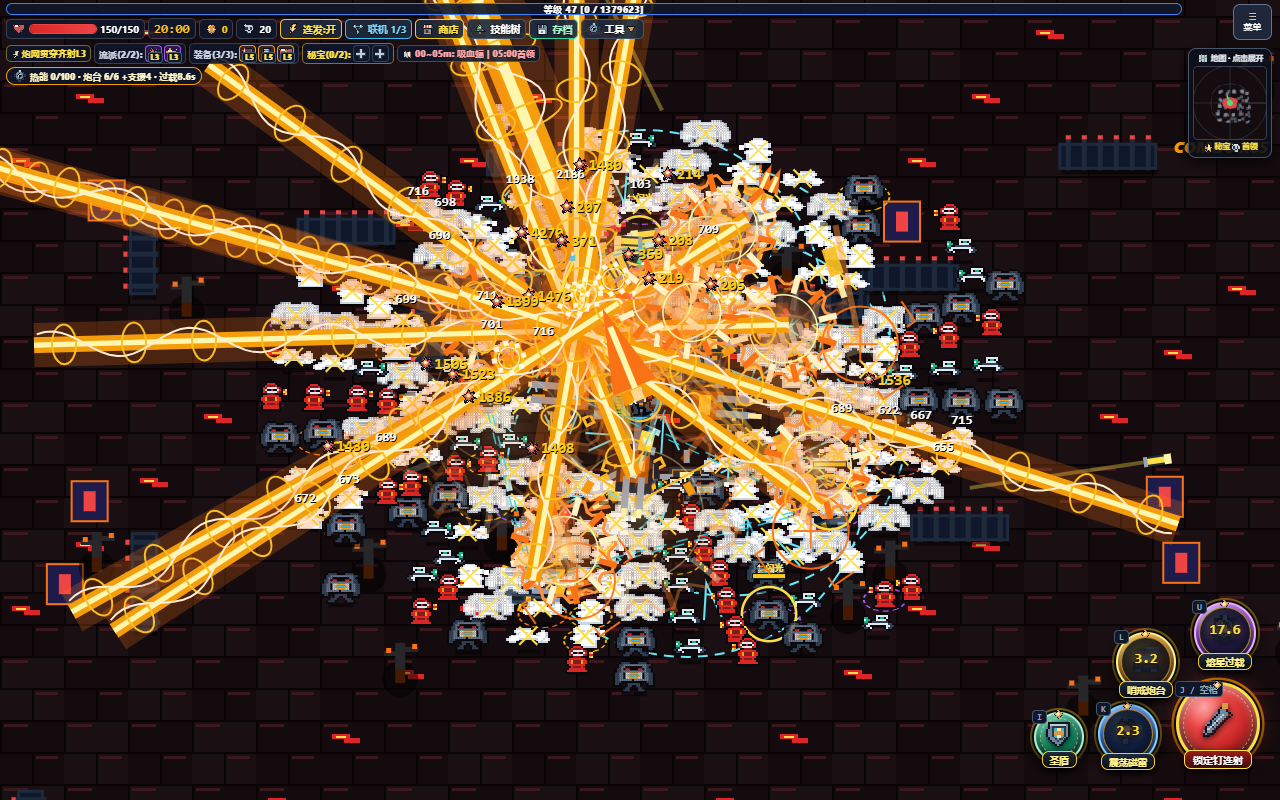
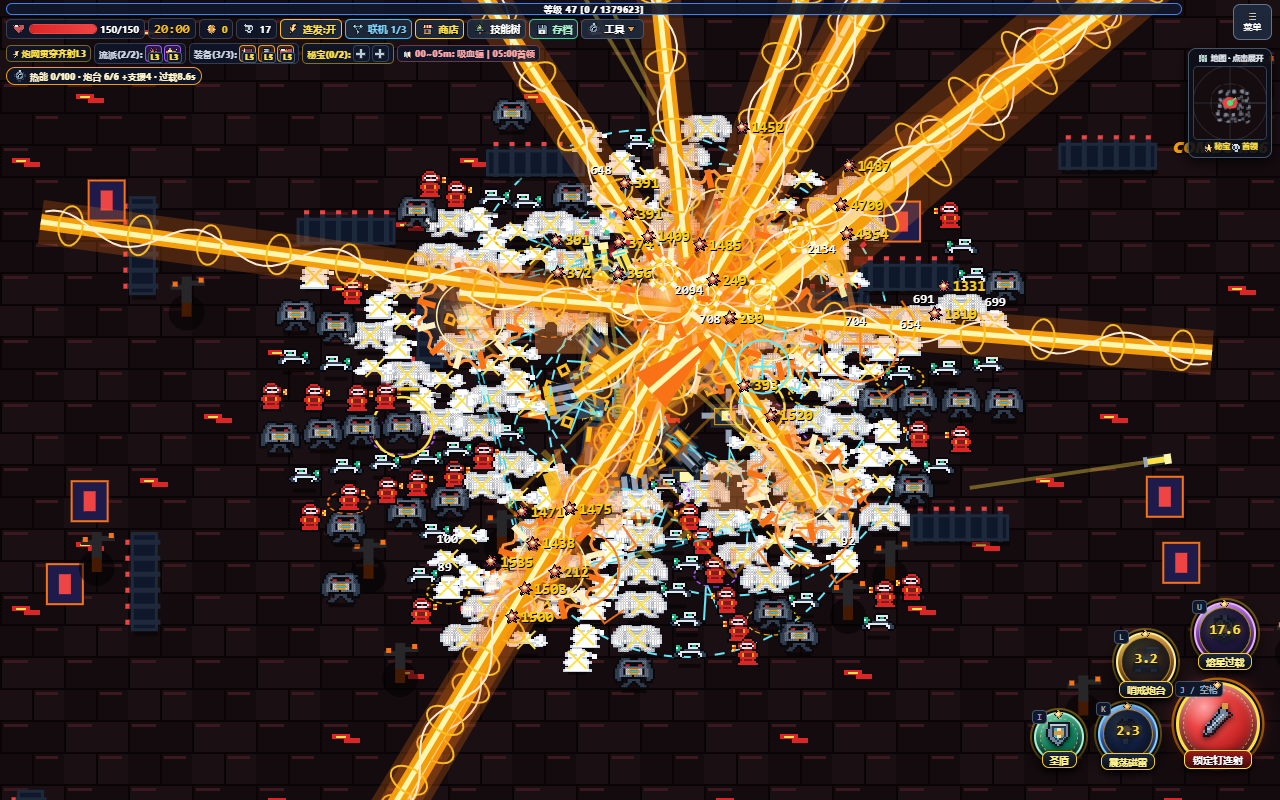
R20: replace rotating rig with aimed floating cannons and synced firing animation

diff --git a/index.html b/index.html
@@ -6,7 +6,7 @@
   <meta name="apple-mobile-web-app-capable" content="yes">
   <meta name="mobile-web-app-capable" content="yes">
   <meta name="theme-color" content="#0b0c10">
-  <title>血夜幸存者：暗黑像素版 v26.4 联机轻简版 R19 (Darkest Pixel Survivor)</title>
+  <title>血夜幸存者：暗黑像素版 v26.4 联机轻简版 R20 (Darkest Pixel Survivor)</title>
   <style>
     * {
       box-sizing: border-box;
@@ -1268,7 +1268,7 @@
     <!-- 英雄与地图选择大厅弹窗 (开局) -->
     <div id="lobby-modal" class="modal-overlay" style="display: flex;">
       <div class="modal-card">
-        <div class="modal-title">[px:swords] 血夜幸存者 · 战前备战 <span id="game-build" style="font-size:12px;color:#7dd3fc">R19</span></div>
+        <div class="modal-title">[px:swords] 血夜幸存者 · 战前备战 <span id="game-build" style="font-size:12px;color:#7dd3fc">R20</span></div>
         <div class="modal-subtitle">16位暗黑哥特精细像素 · 硬核生存数值 · 320同屏百鬼尸潮</div>
 
         <div style="font-size: 12px; font-weight: 800; text-align: left; margin-bottom: 5px; color: #93c5fd;">1. 选择出征英雄（独立技能机制与连携）</div>
@@ -2702,7 +2702,7 @@
     };
 
     var EngineerKit={
-      reset(){this.heat=0;this.heatGate=0;this.lock=null;this.lockTime=0;this.lockVisual=null;this.combo=0;this.strikes=[];this.strikeTimer=0;this.netTimer=0;this.cannonTimer=0;},
+      reset(){this.heat=0;this.heatGate=0;this.lock=null;this.lockTime=0;this.lockVisual=null;this.combo=0;this.strikes=[];this.strikeTimer=0;this.netTimer=0;this.cannonTimer=0;this.cannonSeq=this.cannonSeq||0;this.cannonMask=0;this.rig=Array.from({length:4},()=>[0,0]);},
       normalizeSkills(){const defaults=HERO_CONFIGS.engineer.initSkills();for(const [key,sk]of Object.entries(player.skills))if(defaults[key])sk.name=defaults[key].name;Object.assign(player.skills.charge,{branchAName:defaults.charge.branchAName,branchBName:defaults.charge.branchBName});},
       turrets(){return groundEffects.filter(g=>g.type==='turret'&&g.life>0);},
       cap(){const s=player.skills.skill2;return s.isEvolved?6:s.level>=5?5:s.level>=3?4:2;},
@@ -2796,26 +2796,40 @@
         const u=player.skills.ult;GameState.forgeOverdriveTimer=u.isEvolved?9:6;player.invulnerableTimer=Math.max(player.invulnerableTimer,1.2);
         for(const g of this.turrets().filter(g=>g.temporary))g.life=0;
         const n=u.isEvolved?4:2;for(let i=0;i<n;i++){const a=player.aimAngle+Math.PI/4+i*Math.PI*2/n;this.place(player.x+Math.cos(a)*210,player.y+Math.sin(a)*210,true);}
-        this.strikeTimer=.12;this.cannonTimer=0;this.cannons();this.command(3);this.visual('forge_blast',{x:player.x,y:player.y,radius:200,color:'#fbbf24'},.65);damageInRadius(player.x,player.y,180,u.damage,120);
+        this.rig=Array.from({length:4},(_,i)=>{const a=this.rigPort(player,GameState.gameTime,i).orbit;return[Math.atan2(Math.sin(a),Math.cos(a)),0];});this.strikeTimer=.12;this.cannonTimer=0;this.cannons();this.command(3);this.visual('forge_blast',{x:player.x,y:player.y,radius:200,color:'#fbbf24'},.65);damageInRadius(player.x,player.y,180,u.damage,120);
         showToast(u.isEvolved?'[px:gear] 日冕工厂：四座重装支援 · 炮网齐射 · 巡航轰炸！':'[px:gear] 熔星过载：双支援炮台 · 火力全开！');audio.playExplosion();
       },
+      rigPort(p,time,index){
+        const orbit=index*Math.PI/2+Math.PI/4+time*.25;
+        return{x:p.x+Math.cos(orbit)*58,y:p.y+Math.sin(orbit)*58,orbit};
+      },
+      rigView(){return{evolved:Boolean(player.skills.ult.isEvolved),ports:this.rig||[]};},
+      rigPacket(){return[this.cannonSeq||0,this.cannonMask||0,player.skills.ult.isEvolved?1:0,...Array.from({length:4},(_,i)=>Math.round((this.rig?.[i]?.[0]||0)*1000)/1000)];},
       cannons(){
         if(!WorldCoop.canAct()||GameState.forgeOverdriveTimer<=0)return;
-        const u=player.skills.ult,n=u.isEvolved?2:1;
+        const u=player.skills.ult,n=u.isEvolved?2:1;let fired=false,mask=0;
         for(let port=0;port<4;port++){
-          const a=port*Math.PI/2+GameState.gameTime*.25,x=player.x+Math.cos(a)*115,y=player.y+Math.sin(a)*115;
-          for(let i=0;i<n;i++){const side=n===1?0:(i?7:-7);this.shoot(x-Math.sin(a)*side,y+Math.cos(a)*side,a+(i-(n-1)/2)*.06,u.damage*.30,u.isEvolved,true,{forgeCannon:true,isSecondary:true});}
-          this.visual('forge_muzzle',{x,y,angle:a,radius:38,color:'#fde047'},.18);
+          const g=this.rigPort(player,GameState.gameTime,port),target=this.target(g.x,g.y,540);
+          if(!target)continue;
+          const a=Math.round(Math.atan2(target.y-g.y,target.x-g.x)*1000)/1000,x=g.x+Math.cos(a)*31,y=g.y+Math.sin(a)*31;
+          let shots=0;
+          for(let i=0;i<n;i++){
+            const side=n===1?0:(i?4:-4);
+            if(this.shoot(x-Math.sin(a)*side,y+Math.cos(a)*side,a+(i-(n-1)/2)*.035,u.damage*.30,u.isEvolved,true,{forgeCannon:true,isSecondary:true}))shots++;
+          }
+          if(shots){this.rig[port]=[a,.18];mask|=1<<port;fired=true;this.visual('forge_cannon_flash',{x,y,angle:a,radius:23,color:'#fde047'},.16);}
         }
-        this.cannonTimer=.45;audio.playShoot();
+        this.cannonMask=mask;if(fired){this.cannonSeq++;audio.playShoot();}
+        this.cannonTimer=.45;
       },
-      explode(x,y,radius,damage,except=null){
-        this.visual('forge_blast',{x,y,radius,color:'#fb923c'},.42);audio.playExplosion();
+      explode(x,y,radius,damage,except=null,cannon=false){
+        this.visual(cannon?'forge_cannon_blast':'forge_blast',{x,y,radius,color:'#fb923c'},.42);audio.playExplosion();
         for(const e of [...enemies])if(e!==except&&!e.isDead&&Math.hypot(e.x-x,e.y-y)<=radius+e.radius)damageEnemy(e,damage,Math.atan2(e.y-y,e.x-x),90,true);
       },
       tick(dt){
         if(GameState.selectedHero!=='engineer')return;
-        if(!WorldCoop.canAct()){this.strikes=[];if(this.lockVisual)this.lockVisual.life=0;if(player.isDowned){this.heat=0;this.lockTime=0;}for(const g of this.turrets())g.burstLeft=0;return;}
+        for(const pose of this.rig)pose[1]=Math.max(0,pose[1]-dt);
+        if(!WorldCoop.canAct()){this.strikes=[];for(const pose of this.rig)pose[1]=0;if(this.lockVisual)this.lockVisual.life=0;if(player.isDowned){this.heat=0;this.lockTime=0;}for(const g of this.turrets())g.burstLeft=0;return;}
         this.heatGate=Math.max(0,(this.heatGate||0)-dt);this.lockTime=Math.max(0,(this.lockTime||0)-dt);
         if(this.lockTime>0&&this.lock&&!this.lock.isDead){const v=this.lockVisual;if(v&&skyBeams.includes(v)){v.x=this.lock.x;v.y=this.lock.y;v.life=.4;}else this.mark(this.lock);}
         else if(this.lockVisual)this.lockVisual.life=0;
@@ -2874,20 +2888,55 @@
           const strike=s.type==='forge_strike',rr=strike?r*(.45+.55*ratio):r;c.strokeStyle=strike?'#f97316':'#67e8f9';c.lineWidth=2;c.save();c.rotate(t*(strike?-2:1));for(let i=0;i<4;i++){c.rotate(Math.PI/2);c.beginPath();c.moveTo(rr,-12);c.lineTo(rr,12);c.lineTo(rr-10,12);c.stroke();}c.restore();c.beginPath();c.arc(0,0,rr*.65,0,Math.PI*2);c.moveTo(-rr*.3,0);c.lineTo(rr*.3,0);c.moveTo(0,-rr*.3);c.lineTo(0,rr*.3);c.stroke();
           if(strike){const y=-240*ratio;c.strokeStyle='rgba(251,146,60,.5)';c.lineWidth=6;c.beginPath();c.moveTo(-80*ratio,y-45);c.lineTo(0,0);c.stroke();c.fillStyle='#fbbf24';c.save();c.translate(-80*ratio,y);c.rotate(-.32);c.fillRect(-7,-23,14,28);c.fillStyle='#fff7ae';c.fillRect(-3,5,6,24);c.restore();}return;
         }
+        if(s.type==='forge_cannon_flash'){
+          c.rotate(s.angle||0);const f=ratio;c.fillStyle='#f97316';c.fillRect(-3,-8*f,23*f,16*f);c.fillRect(13,-3*f,22*f,6*f);c.fillStyle='#fde047';c.fillRect(-3,-4*f,24*f,8*f);c.fillStyle='#fffde7';c.fillRect(-3,-2,20*f,4);return;
+        }
+        if(s.type==='forge_cannon_blast'){
+          const rr=r*(.35+.65*(1-ratio));c.strokeStyle='#f59e0b';c.lineWidth=3;c.beginPath();c.moveTo(-rr,0);c.lineTo(0,-rr);c.lineTo(rr,0);c.lineTo(0,rr);c.closePath();c.stroke();
+          c.fillStyle=ratio>.6?'#fff7cf':'#fb923c';c.fillRect(-rr*.28,-rr*.28,rr*.56,rr*.56);
+          for(let i=0;i<8;i++){c.save();c.rotate(i*Math.PI/4);c.fillStyle=i%2?'#fbbf24':'#f97316';c.fillRect(rr*.7,-3,12+10*ratio,6);c.restore();}return;
+        }
         if(s.type==='forge_muzzle'){c.rotate(s.angle||0);c.fillStyle='#f97316';c.beginPath();c.moveTo(14,-r*.35);c.lineTo(r*1.5,0);c.lineTo(14,r*.35);c.fill();c.fillStyle='#fff7ae';c.fillRect(13,-3,r,6);return;}
         const size=r*(1.1-ratio*.7),gradient=c.createRadialGradient(0,0,0,0,0,size);gradient.addColorStop(0,'rgba(255,247,174,.6)');gradient.addColorStop(.45,'rgba(249,115,22,.28)');gradient.addColorStop(1,'rgba(249,115,22,0)');c.fillStyle=gradient;c.fillRect(-size,-size,size*2,size*2);
         c.rotate((1-ratio)*1.3);c.strokeStyle=s.color||'#fb923c';c.lineWidth=3;c.beginPath();for(let i=0;i<48;i++){const a=i*Math.PI/24,rr=size*(i%4<2?1:.86);if(i)c.lineTo(Math.cos(a)*rr,Math.sin(a)*rr);else c.moveTo(Math.cos(a)*rr,Math.sin(a)*rr);}c.closePath();c.stroke();c.strokeStyle='#fff7ae';c.lineWidth=1.5;c.beginPath();c.arc(0,0,size*.65,0,Math.PI*2);c.stroke();
         for(let i=0;i<12;i++){c.save();c.rotate(i*Math.PI/6);c.fillStyle=i%2?'#fef3c7':'#f97316';c.fillRect(size*.7,-3,size*.35,6);c.restore();}
       },
       drawRig(c,p,state){
-        if(state.selectedHero!=='engineer')return;const active=state.forgeOverdriveTimer>0,t=state.gameTime||0;
-        c.save();c.translate(p.x,p.y);c.strokeStyle=active?'#fbbf24':'#fb923c';c.lineWidth=2;
+        if(state.selectedHero!=='engineer')return;
+        const active=state.forgeOverdriveTimer>0,t=state.gameTime||0;
+        c.save();c.translate(p.x,p.y);
         if(active){
-          c.save();c.rotate(t*.4);c.beginPath();for(let i=0;i<6;i++){const a=i*Math.PI/3;if(i)c.lineTo(Math.cos(a)*102,Math.sin(a)*102);else c.moveTo(102,0);}c.closePath();c.stroke();for(let i=0;i<12;i++){c.rotate(Math.PI/6);c.fillStyle='#f59e0b';c.fillRect(95,-4,13,8);}c.restore();
-          for(let i=0;i<4;i++){const a=i*Math.PI/2+t*.25,x=Math.cos(a)*69,y=Math.sin(a)*69;c.strokeStyle='#64748b';c.lineWidth=7;c.beginPath();c.moveTo(0,0);c.lineTo(x,y);c.stroke();c.save();c.translate(x,y);c.rotate(a);c.fillStyle='#0f172a';c.fillRect(-24,-18,48,36);c.fillStyle='#b45309';c.fillRect(-18,-14,32,28);c.fillStyle='#fbbf24';c.fillRect(-10,-10,12,20);c.fillStyle='#94a3b8';c.fillRect(8,-11,33,7);c.fillRect(8,4,33,7);c.fillStyle='#fff7ae';c.fillRect(40,-10,8+Math.sin(t*24+i)*6,5);c.fillRect(40,5,8+Math.sin(t*24+i)*6,5);c.restore();}
-        }else{for(const side of [-1,1]){c.fillStyle='#334155';c.fillRect(side*29-8,-8,16,22);c.fillStyle='#fb923c';c.fillRect(side*29-5,-5,10,5);c.fillStyle='#94a3b8';c.fillRect(side*29-3,-20,6,15);}}
+          const rig=state.forgeRig||(p===player?this.rigView():null),evolved=Boolean(rig?.evolved);
+          // Compact floating pods; the middle remains open for the player and nearby enemies.
+          c.strokeStyle='#7c582a';c.lineWidth=1;c.setLineDash([7,17]);c.beginPath();c.arc(0,0,54,0,Math.PI*2);c.stroke();c.setLineDash([]);
+          c.fillStyle='#fbbf24';for(const side of [-1,1]){c.fillRect(side*22-3,-22,6,2);c.fillRect(side*22-3,20,6,2);}
+          for(let i=0;i<4;i++){
+            const g=this.rigPort(p,t,i),pose=rig?.ports?.[i],a=Number.isFinite(pose?.[0])?pose[0]:g.orbit;
+            const flash=Math.max(0,Math.min(1,(pose?.[1]||0)/.18)),kick=6*flash;
+            c.save();c.translate(g.x-p.x,g.y-p.y);
+            c.fillStyle='rgba(2,6,23,.45)';c.fillRect(-18,15,36,5);
+            c.rotate(a);c.fillStyle='#225867';c.fillRect(-22,-6,8,12);c.fillStyle='#67e8f9';c.fillRect(-27,-3,6,6);c.fillStyle='#e0f2fe';c.fillRect(-25,-1,4,2);
+            c.translate(-kick,0);
+            c.fillStyle='#070c15';c.fillRect(-17,-15,36,30);c.fillRect(12,-12,22,24);
+            c.fillStyle='#263345';c.fillRect(-15,-13,32,26);c.fillStyle='#a25418';c.fillRect(-11,-11,25,22);
+            c.fillStyle=evolved?'#fbbf24':'#d99026';c.fillRect(-10,-10,15,5);c.fillRect(-10,5,15,5);c.fillStyle='#ffdf86';c.fillRect(-7,-8,8,2);
+            c.fillStyle='#17202c';c.fillRect(-8,-3,14,6);c.fillStyle=flash?'#fff7cf':'#4b8393';c.fillRect(-6,-2,9,4);
+            for(const side of evolved?[-5,5]:[0]){
+              c.fillStyle='#5a6879';c.fillRect(8,side-4,23,8);c.fillStyle='#b5c6cc';c.fillRect(10,side-3,19,2);c.fillStyle='#14202c';c.fillRect(27,side-3,7,6);
+              c.fillStyle=flash?'#fff7cf':'#586575';c.fillRect(31,side-2,3,4);
+            }
+            if(flash){
+              c.globalAlpha*=flash;c.fillStyle='#f97316';c.fillRect(34,-9,12,18);c.fillRect(46,-4,10,8);c.fillStyle='#fbbf24';c.fillRect(34,-5,14,10);c.fillStyle='#fffde7';c.fillRect(33,-2,17,4);
+              c.fillStyle='#cbd5e1';c.fillRect(-1,-20-(1-flash)*9,5,4);c.fillRect(-8,17+(1-flash)*8,4,3);
+            }
+            c.restore();
+          }
+        }else{
+          for(const side of [-1,1]){c.fillStyle='#334155';c.fillRect(side*29-8,-8,16,22);c.fillStyle='#fb923c';c.fillRect(side*29-5,-5,10,5);c.fillStyle='#94a3b8';c.fillRect(side*29-3,-20,6,15);}
+        }
         c.restore();
       }
+
     };
 
 
@@ -7174,7 +7223,7 @@
               p.hitEnemies.add(en);
               damageEnemy(en, p.damage, Math.atan2(p.vy, p.vx), 110, Boolean(p.isSecondary));
               if(p.forgeHand)EngineerKit.onHit(en,p);
-              if(p.isGrenade&&!p.hasExploded){p.hasExploded=true;EngineerKit.explode(en.x,en.y,p.color==='#fde047'?95:70,Math.round(p.damage*.65),en);p.life=0;}
+              if(p.isGrenade&&!p.hasExploded){p.hasExploded=true;EngineerKit.explode(en.x,en.y,p.color==='#fde047'?95:70,Math.round(p.damage*.65),en,Boolean(p.forgeCannon));p.life=0;}
               if (p.applyBleed) { en.bleedStacks = Math.min(5, (en.bleedStacks || 0) + 1); en.bleedTimer = 4.0; WorldCoop.markBleed(en); }
               if (p.applyPoison) { en.poisonStacks = Math.min(4, (en.poisonStacks || 0) + 1); }
               if (p.isFreeze) { en.freezeTimer = 1.5; }
@@ -7190,7 +7239,7 @@
             }
           }
         }
-        if(p.life<=0&&p.isGrenade&&!p.hasExploded&&WorldCoop.canAct()){p.hasExploded=true;EngineerKit.explode(p.x,p.y,p.color==='#fde047'?95:70,Math.round(p.damage*.65));}
+        if(p.life<=0&&p.isGrenade&&!p.hasExploded&&WorldCoop.canAct()){p.hasExploded=true;EngineerKit.explode(p.x,p.y,p.color==='#fde047'?95:70,Math.round(p.damage*.65),null,Boolean(p.forgeCannon));}
         if (p.life <= 0) projectiles.splice(i, 1);
       }
 
@@ -7718,7 +7767,9 @@
         ctx.translate(p.x, p.y);
         ctx.rotate(ang);
 
-        if(p.healerBolt){
+        if(p.forgeCannon){
+          ctx.fillStyle='rgba(249,115,22,.42)';ctx.fillRect(-55,-5,59,10);ctx.fillStyle='#fb923c';ctx.fillRect(-39,-3,42,6);ctx.fillStyle='#fff7cf';ctx.fillRect(-23,-1,34,2);ctx.fillStyle='#131d2a';ctx.fillRect(-12,-7,23,14);ctx.fillStyle=p.color;ctx.fillRect(-8,-5,21,10);ctx.fillStyle='#fffde7';ctx.fillRect(6,-3,10,6);
+        }else if(p.healerBolt){
           ctx.fillStyle='rgba(110,231,183,.28)';ctx.fillRect(-28,-5,42,10);ctx.fillStyle='#a7f3d0';ctx.fillRect(-21,-2,30,4);ctx.fillStyle='#fde68a';ctx.beginPath();ctx.moveTo(19,0);ctx.lineTo(5,-8);ctx.lineTo(-1,0);ctx.lineTo(5,8);ctx.closePath();ctx.fill();ctx.fillStyle='#fffde7';ctx.fillRect(-8,-2,23,4);ctx.fillRect(-19,-6,5,12);
         }else if(p.isRivet){
           if(p.forgeRocket){ctx.fillStyle='rgba(249,115,22,.45)';ctx.beginPath();ctx.moveTo(-10,-6);ctx.lineTo(-48,0);ctx.lineTo(-10,6);ctx.fill();ctx.fillStyle='#fff7ae';ctx.fillRect(-30,-2,20,4);}
@@ -10649,7 +10700,7 @@
               notes.push('治疗只作用于范围内存活且可参与战斗的玩家。溢疗的一半转盾，最多目标生命上限35%，不会降低已有更高护盾。');
             }else if(hero==='engineer'&&key==='skill2'){
               add('炮台上限',s.isEvolved?6:lv>=5?5:lv>=3?4:2);add('每次部署',s.isEvolved?3:lv>=3?2:1);add('炮台寿命',n(16+.8*lv)+' 秒');add('炮台射程',(s.radius||280)+60+' px');
-            }else if(hero==='engineer'&&key==='ult'){add('机甲炮口','4 个旋转炮口');add('机甲炮击',`${s.isEvolved?8:4} 枚炮弹 / 每0.45秒`);add('每枚直击基数',n(s.damage*.3));add('大招持续',`${s.isEvolved?9:6} 秒`);add('普攻 / 蓄力','普攻间隔×0.65 / 蓄满时间×0.70');
+            }else if(hero==='engineer'&&key==='ult'){add('机甲炮口','4 门自动瞄准浮游炮');add('浮游炮索敌距离','540 px（从炮座计算）');add('机甲炮击',`${s.isEvolved?8:4} 枚炮弹 / 每0.45秒`);add('每枚直击基数',n(s.damage*.3));add('大招持续',`${s.isEvolved?9:6} 秒`);add('普攻 / 蓄力','普攻间隔×0.65 / 蓄满时间×0.70');
             }else if(hero==='mage'&&key==='skill1') {add('位移距离',145+15*lv+' px');add('冻结时间',(s.freezeDuration||2.5)+' 秒');notes.push('起点与终点各触发一次冰霜新星。');}
             else if(hero==='warrior'&&key==='skill2')add('持续时间',n((s.duration||4.5)+.4*lv)+' 秒');
             if(key!=='item'&&lv<(s.maxLevel||5)){
@@ -12703,6 +12754,9 @@
           if(old&&pkt.seq<=old.seq)return true;
           const state=old||{visuals:new Map(),seen:new Map(),items:[]};state.seq=pkt.seq;state.castSeq=pkt.castSeq;state.at=performance.now();
           if(Array.isArray(pkt.look)&&(pkt.look.length===7||pkt.look.length===8)&&pkt.look.every(Number.isFinite))state.look=pkt.look.map((v,i)=>Math.max(0,Math.min(i===5?40:30,v)));
+          if(Array.isArray(pkt.rig)&&pkt.rig.length===7&&Number.isSafeInteger(pkt.rig[0])&&pkt.rig[0]>=0&&Number.isInteger(pkt.rig[1])&&pkt.rig[1]>=0&&pkt.rig[1]<=15&&[0,1].includes(pkt.rig[2])&&pkt.rig.slice(3).every(a=>Number.isFinite(a)&&Math.abs(a)<=Math.PI+.01)){
+            const fresh=pkt.rig[0]>(state.rigSeq??0);state.rigSeq=Math.max(state.rigSeq||0,pkt.rig[0]);state.rig={evolved:Boolean(pkt.rig[2]),ports:pkt.rig.slice(3).map((a,i)=>[a,fresh&&(pkt.rig[1]&(1<<i)) ? .18 : (state.rig?.ports?.[i]?.[1]||0)])};
+          }
           if(Array.isArray(pkt.items)&&pkt.items.length<=16)state.items=pkt.items.filter(a=>Array.isArray(a)&&['orbit','blackhole','trap','wheel'].includes(a[0])&&a.slice(1,4).every(Number.isFinite));
           if(Array.isArray(pkt.alive)&&pkt.alive.length<=320){const alive=new Set(pkt.alive);for(const [id,v]of state.visuals)if((['ground','orbit','wheel','projectile'].includes(v.kind)||['healer_sanctuary','healer_wings'].includes(v.obj.type))&&!alive.has(id))state.visuals.delete(id);}
           const ack=[];
@@ -12737,6 +12791,7 @@
         }
         for(const id of this.records.keys())if(!alive.has(id))this.records.delete(id);
       },
+      rigPayload(){return EngineerKit.rigPacket();},
       syncState(now){
         if(!WorldCoop.active()||WorldCoop.ended||!CoopManager.allies.length||now-this.lastState<75)return;this.lastState=now;this.capture();
         const items=[];if(orbitingBlades.length)items.push(['orbit',player.x,player.y,Math.max(...orbitingBlades.map(b=>b.dist)),orbitingBlades.some(b=>b.isEvolved)?1:0]);
@@ -12756,10 +12811,11 @@
           const b=this.budgets.get(peer.id)||{at:now,credit:burst,meta:-Infinity,motion:-Infinity};b.credit=Math.min(burst,b.credit+Math.max(0,now-b.at)*rate/1000);b.at=now;this.budgets.set(peer.id,b);
           if(!['rtc','local','mqtt'].includes(route.kind)||route.dc?.bufferedAmount>4096)continue;
           const meta=now-b.meta>=350,packet={type:'SKILL_VFX_STATE',session:WorldCoop.session,targetPeerId:peer.id,seq:++this.stateSeq,castSeq:this.seq,visuals:[]};
-          const motion=updates.length&&now-b.motion>=150;
+          const motion=(updates.length||(GameState.selectedHero==='engineer'&&GameState.forgeOverdriveTimer>0))&&now-b.motion>=150;
           if(meta)Object.assign(packet,{items:items.slice(0,16),look,alive});if(motion)packet.updates=updates;
+          if((motion||meta)&&GameState.selectedHero==='engineer'&&GameState.forgeOverdriveTimer>0)packet.rig=this.rigPayload();
           const chosen=[];let bytes=JSON.stringify(packet).length+240;
-          const visualPriority=v=>v.kind==='ground'||v.kind==='orbit'||v.kind==='wheel'?0:v.kind==='beam'?1:v.obj.forgeRocket?2:v.kind==='particle'?4:3;
+          const visualPriority=v=>v.kind==='ground'||v.kind==='orbit'||v.kind==='wheel'?0:v.kind==='beam'?1:(v.obj.forgeRocket||v.obj.forgeCannon)?2:v.kind==='particle'?4:3;
           for(const [id,v]of [...this.records].sort((a,b)=>visualPriority(a[1])-visualPriority(b[1]))){
             if(v.acked.has(peer.id)||now-(v.sent.get(peer.id)??-Infinity)<450)continue;
             const row=this.pack(v.kind,id,v.obj),size=JSON.stringify(row).length+1;
@@ -12783,6 +12839,7 @@
           const peer=CoopManager.allies.find(p=>p.id===id);if(!peer||peer.downed||(!paused&&now-s.at>2500)){this.states.delete(id);continue;}
           for(const [id,at]of s.seen)if(now-at>15000)s.seen.delete(id);
           if(paused)continue;const frozen=Boolean(s.look?.[6]);
+          if(s.rig)for(const pose of s.rig.ports)pose[1]=Math.max(0,pose[1]-scaled);
           if(s.look)for(const k of [1,2,3,7])if(Number.isFinite(s.look[k]))s.look[k]=Math.max(0,s.look[k]-scaled);
           for(const [key,v]of s.visuals){const o=v.obj,d=scaled;
             if(['orbit','wheel'].includes(v.kind)&&frozen)continue;
@@ -12807,7 +12864,7 @@
       },
       drawAuras(c,peer){
         const s=this.states.get(peer.id),v=s?.look,alpha=CoopManager.allyVfxAlpha;if(!v||!alpha)return;
-        drawNativeAuras(c,{...peer,radius:v[5]||12,shield:v[4],passives:{frostAura:v[0]}},{selectedHero:peer.hero,berserkTimer:v[1],starfallTimer:v[2],phantomCloneTimer:v[3],forgeOverdriveTimer:v[7]||0,gameTime:GameState.gameTime},alpha);
+        drawNativeAuras(c,{...peer,radius:v[5]||12,shield:v[4],passives:{frostAura:v[0]}},{selectedHero:peer.hero,berserkTimer:v[1],starfallTimer:v[2],phantomCloneTimer:v[3],forgeOverdriveTimer:v[7]||0,forgeRig:s.rig,gameTime:GameState.gameTime},alpha);
       },
       draw(c,kind){
         const alpha=CoopManager.allyVfxAlpha;if(!alpha)return;
@@ -15786,7 +15843,7 @@
     // Room numbers are discovery labels. A random room identity isolates the
     // actual game even when disconnected directory networks choose the same code.
     var RoomHub = {
-      version: 1, build: 19, browsing: false, browseToken: 0, browseStatus: '', listSignature: '', directory: null, local: null, ads: new Map(), claims: new Map(),
+      version: 1, build: 20, browsing: false, browseToken: 0, browseStatus: '', listSignature: '', directory: null, local: null, ads: new Map(), claims: new Map(),
       requests: new Map(), seen: new Map(), members: new Set(), roomId: null,
       hostId: null, roomName: '', roomKey: null, keyBytes: null, locked: false, busy: false,
       epoch: 0, operation: 0, status: '', pending: null, claim: null,

diff --git a/README.md b/README.md
@@ -4,9 +4,9 @@
 
 暗黑像素风生存游戏。五个职业、七种流派、三张战场与 18 位独立招式的 Boss；支持单人，以及 **2–3 人浏览器联机**。电脑与安卓打开网页就能玩，无需注册游戏账号。
 
-### [立即游玩](https://582835293.github.io/darkest-pixel-survivor/?v=26.4.19) · [更新记录](CHANGELOG.md) · [单文件源码](index.html)
+### [立即游玩](https://582835293.github.io/darkest-pixel-survivor/?v=26.4.20) · [更新记录](CHANGELOG.md) · [单文件源码](index.html)
 
-**当前版本：v26.4 R19。** 技能树可点开查看当前数值；祷师获得受击反伤，蓄力与冻结计时修复；冲刺途中也能沿路铺火。
+**当前版本：v26.4 R20。** 机匠大招重做为自动瞄准的四门浮游炮：炮管转向、真实后坐、炮口焰与爆炸弹对应同一次开火，队友也能看到。
 
 ![满级剑客在尸潮中释放多圈剑阵与黄金圣剑](assets/screenshots/warrior-endgame.png)
 
@@ -45,7 +45,11 @@
 - 热能满时自动触发炮网三轮齐射；也可以提前蓄力，消耗已有热能强化重炮。
 - 磁雷先牵引附近小怪，再延时爆破，把敌人聚进交叉火力范围。
 - 蓄力二选一：**炮网贯穿齐射**让自己与全部炮台共同开炮；**追踪火箭弹幕**发射 6–10 枚弧线追踪火箭，并指挥炮群集火。
-- 觉醒大招展开重装机甲与四座限时支援炮台，持续9秒巡航轰炸。机甲四个旋转炮口每0.45秒发射一轮爆炸弹，普通形态4枚、觉醒8枚；大招期间普攻间隔×0.65，蓄满时间×0.70，结束恢复。常规炮台也有寿命，需要补充与调整阵地。
+- 觉醒大招展开重装机甲与四座限时支援炮台，持续9秒巡航轰炸。四门浮游炮自动瞄准540px内的敌人，每0.45秒发射一轮爆炸弹，普通形态4枚、觉醒8枚；大招期间普攻间隔×0.65，蓄满时间×0.70，结束恢复。常规炮台也有寿命，需要补充与调整阵地。
+
+![机匠大招的四门浮游炮转向附近敌人，发射亮芯爆炸弹](assets/screenshots/engineer-cannons.png)
+
+*浮游炮阵实机演示：缩小外围轮廓、移除粗支架，中心保留角色和走位空间。炮管瞄准与实际弹道共用方向；空场待机不假开火，开炮后才出现后坐、炮口焰和排烟。觉醒后使用双炮管，伤害仍由原有命中系统结算。*
 
 ## 曙光祷师：能救队友，也能独自打成型
 
@@ -170,7 +174,7 @@ GitHub Pages 只分发游戏文件。P2P 连接取决于双方网络；公共备
 
 ## 开发与开源
 
-游戏逻辑、界面、原版特效和像素精灵均在 [index.html](index.html) 中；游戏本体无需安装 npm 依赖。当前323项检查覆盖真实本地 RTC、技能与伤害归属、房间、语音、存档、界面，以及原版/队友特效对比。
+游戏逻辑、界面、原版特效和像素精灵均在 [index.html](index.html) 中；游戏本体无需安装 npm 依赖。仓库当前330项检查覆盖真实本地 RTC、技能与伤害归属、房间、语音、存档、界面，以及原版/队友特效对比。
 
 ```bash
 npm ci
@@ -178,6 +182,8 @@ npx playwright install chromium
 npm run check
 npm test
 ```
+
+R20本轮通过105项相关回归，覆盖浮游炮实际命中、联机伤害/治疗、姿态丢包补回、开火去重、原版/队友像素一致、特效预算和手机布局；R19的323项全量结果保留在更新记录中。
 
 开发测试可通过 `PLAYWRIGHT_EXECUTABLE_PATH` 指定已有 Chromium / Edge。详见 [验证说明](docs/TESTING.md)；测试结果与临时画面保存在被 Git 忽略的 `test-results/`。
 

diff --git a/CHANGELOG.md b/CHANGELOG.md
@@ -1,5 +1,12 @@
 # 更新记录
 
+## v26.4 R20
+
+- 机匠大招重绘为紧凑的四门浮游炮，移除粗支架与大六边形；四炮分别自动瞄准附近敌人，优先跟随普攻锁定目标。炮管与实际弹道共用方向，修复原先只向外发射、夹角内敌人难以命中的体验。
+- 枪口按真实发射触发短时闪光、后坐与排烟，空场和弹丸数量达到上限时不再假开火。爆炸弹有独立亮芯拖尾与像素冲击波，保留每0.45秒4枚/觉醒8枚、普攻间隔×0.65和蓄力时间×0.70。
+- 队友复用同一套炮阵绘制，紧凑姿态按约150ms运动节奏传输，序号和开火位掩码防止重复闪光；炮弹与炮口效果在原有视觉预算内发送，不重算远程伤害。
+- 本轮105项相关检查通过，包括16项炮击、17项机匠、14项炮群、14项原版视觉、28项详情/联机战斗、16项手机与桌面界面检查。新增7项使仓库测试集达到330项；本轮未重复无关套件，R19完整323项记录保留。更新机匠实机截图与README。
+
 ## v26.4 R19
 
 - 技能、配件、七种流派及九种秘宝卡片支持点击展开当前数值，显示冷却、基数、范围、治疗、护盾和触发条件。未学习与未装备内容明确标为预览；修正旧流派节点的夸大描述。

diff --git a/docs/NETWORKING.md b/docs/NETWORKING.md
@@ -94,3 +94,5 @@ R19敌方弹丸紧凑数组附带可选来源怪物ID。祷师的反伤以本机
 R19机甲四炮的爆炸弹由机匠拥有者模拟，按现有普通弹道/爆炸命中机制上报；远程只接收炮口和弹道视觉，不执行第二次伤害。普攻与蓄力加速根据大招剩余时间动态计算，不改基础属性，结束自动恢复。
 
 R19多人开发者密码只由房主设置，房间内存中只保留派生密钥与盐；客机仍使用原挑战证明和房主批准流程。原文不进入公告/网络消息或本地存储。换密码撤销旧授权，退房清除；单人隐藏口令不用于多人解锁。它是客户端游戏的调试入口，不构成服务器反作弊。
+
+R20浮游炮姿态通过已有 SKILL_VFX_STATE 的可选7元素数组传递：射击序号、4位开火掩码、觉醒位、4个炮管角度。约150ms运动节奏与350ms元信息修复沿用现有预算，接收端只在新射击序号出现时启动后坐/枪口闪光，同序号更新不会重新闪烁；非法角度/掩码拒绝。自己与队友共用原版炮阵、爆炸弹和冲击波绘制；姿态和特效不会执行远程索敌或造成第二份伤害。
